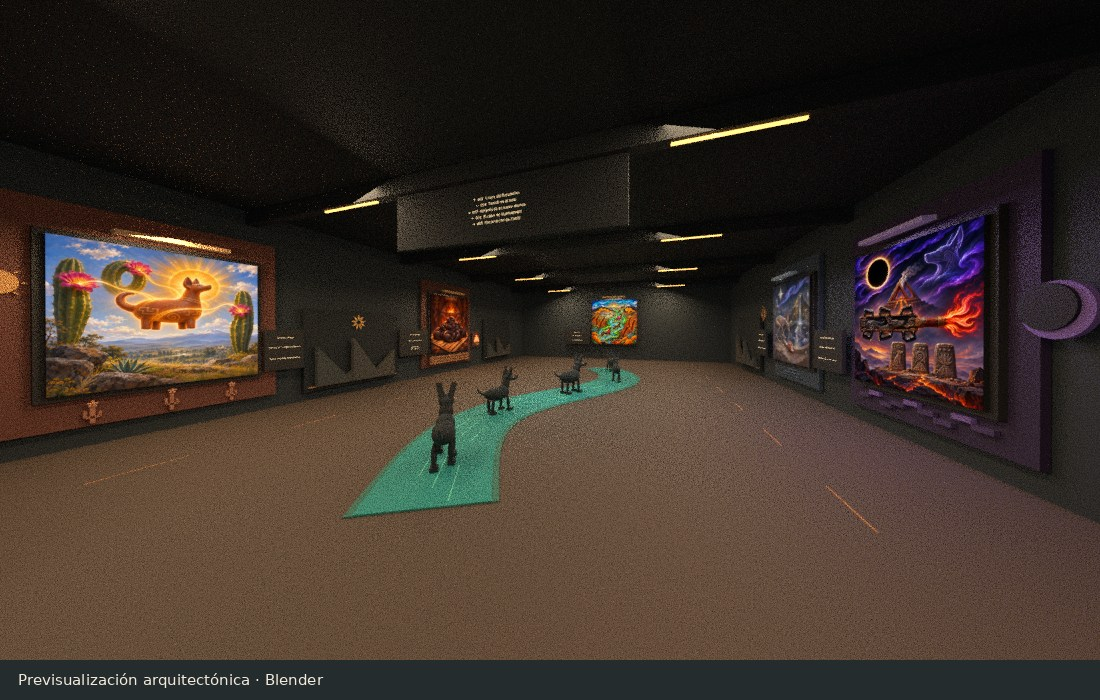
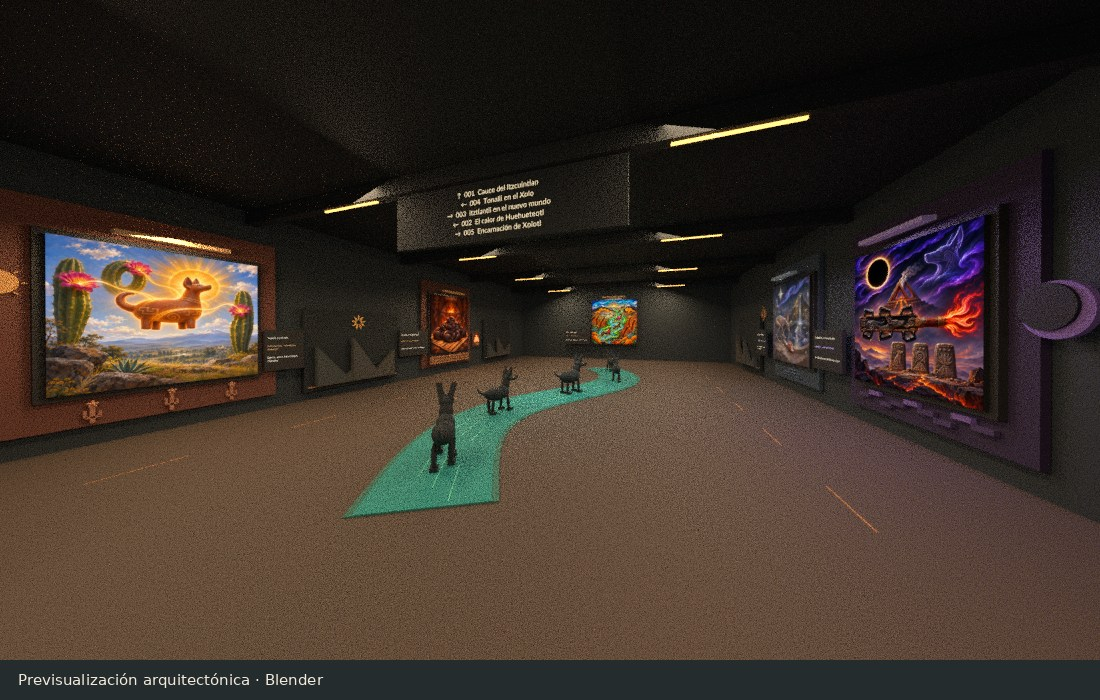
Close Astra architecture review and document private Studio QA

diff --git a/colectividad/tools/render_preview.py b/colectividad/tools/render_preview.py
@@ -4,7 +4,6 @@ import hashlib
 import json
 import math
 import sys
-import textwrap
 from pathlib import Path
 
 import bpy
@@ -17,6 +16,11 @@ def arguments():
     parser.add_argument("originals", type=Path, help="Directory with the original PNGs, named by slug")
     parser.add_argument("output", type=Path)
     parser.add_argument("--views", nargs="+", default=["entrada", "procesion", "obra", "huehueteotl", "itztlantli", "tonalli", "encarnacion", "introduccion", "cinco-estaciones", "retorno", "axonometria"])
+    font_directory = Path("/usr/share/fonts/truetype/lato")
+    parser.add_argument("--font", type=Path, default=font_directory / "Lato-Medium.ttf",
+                        help="Typeface used to approximate Gotham Medium")
+    parser.add_argument("--bold-font", type=Path, default=font_directory / "Lato-Bold.ttf",
+                        help="Typeface used to approximate Gotham Bold")
     return parser.parse_args(sys.argv[sys.argv.index("--") + 1 :])
 
 
@@ -104,22 +108,129 @@ def create_part(part, materials):
     return obj, frame
 
 
-def sign_text(name, body, size, frame, position, color, back=False):
-    curve = bpy.data.curves.new(name, "FONT")
+def text_material(rgb):
+    material = bpy.data.materials.new("Texto de SurfaceGui")
+    material.use_nodes = True
+    nodes = material.node_tree.nodes
+    nodes.clear()
+    emission = nodes.new("ShaderNodeEmission")
+    emission.inputs["Color"].default_value = (*rgb_linear(rgb), 1)
+    output = nodes.new("ShaderNodeOutputMaterial")
+    material.node_tree.links.new(emission.outputs[0], output.inputs["Surface"])
+    return material
+
+
+def sign_frame(part_frame, size, face):
+    # The columns of the rotation are the reader's right, up and outward.
+    normals = {
+        "Front": (0, 0, -1), "Back": (0, 0, 1),
+        "Left": (-1, 0, 0), "Right": (1, 0, 0),
+        "Top": (0, 1, 0), "Bottom": (0, -1, 0),
+    }
+    outward = Vector(normals[face])
+    up = Vector({"Top": (0, 0, 1), "Bottom": (0, 0, -1)}.get(face, (0, 1, 0)))
+    right = up.cross(outward)
+    dimensions = Vector(size)
+    width, height, depth = (
+        dimensions.dot(Vector(tuple(abs(axis) for axis in direction)))
+        for direction in (right, up, outward)
+    )
+    rotation = Matrix((right, up, outward)).transposed().to_4x4()
+    rotation.translation = outward * (depth / 2 + 0.014)
+    return part_frame @ rotation, width, height
+
+
+def resolve_box(udim, canvas):
+    x_scale, y_scale, x_offset, y_offset = udim
+    return Vector((x_scale * canvas[0] + x_offset, y_scale * canvas[1] + y_offset))
+
+
+def line_bounds(curve, probe, body):
     curve.body = body
+    bpy.context.view_layer.update()
+    return probe.bound_box[0][0], probe.bound_box[6][0]
+
+
+def wrap_lines(body, width, measure):
+    for paragraph in body.split("\n"):
+        line = ""
+        for word in paragraph.split():
+            candidate = f"{line} {word}" if line else word
+            if measure(candidate) <= width:
+                line = candidate
+                continue
+            if line:
+                yield line
+                line = ""
+            if measure(word) <= width:
+                line = word
+                continue
+            for letter in word:
+                candidate = line + letter
+                if line and measure(candidate) > width:
+                    yield line
+                    line = letter
+                else:
+                    line = candidate
+        yield line
+
+
+def create_label(label, frame, canvas, font, material):
+    size = label["textSize"]
+    box = resolve_box(label["boxSize"], canvas)
+    x, y = resolve_box(label["position"], canvas)
+    x -= label["anchor"][0] * box.x
+    y -= label["anchor"][1] * box.y
+    curve = bpy.data.curves.new(label["name"], "FONT")
+    curve.font = font
     curve.size = size
-    curve.align_x = "CENTER"
-    curve.align_y = "CENTER"
-    font_path = Path("/usr/share/fonts/truetype/dejavu/DejaVuSans.ttf")
-    if font_path.exists():
-        curve.font = bpy.data.fonts.get("DejaVu Sans") or bpy.data.fonts.load(str(font_path))
-    curve.materials.append(color)
-    obj = bpy.data.objects.new(name, curve)
-    bpy.context.collection.objects.link(obj)
-    # Blender text faces local +Z. Rotate it toward the artwork's viewer.
-    rotation = Matrix.Rotation(0 if back else math.pi, 4, "Y")
-    obj.matrix_world = frame @ Matrix.Translation(position) @ rotation
-    return obj
+    curve.materials.append(material)
+    probe = bpy.data.objects.new(label["name"], curve)
+    bpy.context.collection.objects.link(probe)
+
+    def measure(line):
+        left, right = line_bounds(curve, probe, line)
+        return right - left
+
+    lines = label["text"].split("\n")
+    if label["wrapped"]:
+        lines = list(wrap_lines(label["text"], box.x, measure))
+        fitting_lines = int((box.y + 1e-5) / size)
+        if len(lines) > fitting_lines:
+            print(f"Advertencia: {label['name']} excede la altura de su caja de SurfaceGui")
+            lines = lines[:fitting_lines]
+
+    free_height = box.y - size * len(lines)
+    y += {"Top": 0, "Center": free_height / 2, "Bottom": free_height}[label["yAlignment"]]
+    # Approximate Gotham's baseline and line metrics with the chosen face at the declared pixel size.
+    y += size * 0.78
+    for index, line in enumerate(lines):
+        if not line:
+            continue
+        left, right = line_bounds(curve, probe, line)
+        free_width = box.x - (right - left)
+        shift = {"Left": 0, "Center": free_width / 2, "Right": free_width}[label["xAlignment"]]
+        obj = bpy.data.objects.new(label["name"], curve.copy())
+        bpy.context.collection.objects.link(obj)
+        obj.matrix_world = frame @ Matrix.Translation((x + shift - left, -y - index * size, 0))
+    bpy.data.objects.remove(probe, do_unlink=True)
+    bpy.data.curves.remove(curve)
+
+
+def render_sign(part, sign, frame, fonts, text_colors):
+    face, width, height = sign_frame(frame, part["size"], sign["face"])
+    canvas = sign.get("canvasSize")
+    if canvas is None:
+        pixels = sign["pixelsPerStud"]
+        canvas = (width * pixels, height * pixels)
+    # Map canvas pixels to the part face; label coordinates start at its upper left.
+    canvas_frame = face @ Matrix.Translation((-width / 2, height / 2, 0))
+    canvas_frame = canvas_frame @ Matrix.Diagonal((width / canvas[0], height / canvas[1], 1, 1))
+    for label in sign["labels"]:
+        rgb = tuple(label["textColor"])
+        if rgb not in text_colors:
+            text_colors[rgb] = text_material(rgb)
+        create_label(label, canvas_frame, canvas, fonts.get(label["font"], fonts["GothamMedium"]), text_colors[rgb])
 
 
 def art_plane(name, frame, size, material):
@@ -185,7 +296,11 @@ def main(args):
     scene.world.node_tree.nodes.get("Background").inputs["Strength"].default_value = 0.12
 
     materials = {}
-    text = surface("Texto ámbar", (0.98, 0.87, 0.67), 1)
+    text_colors = {}
+    fonts = {
+        "GothamMedium": bpy.data.fonts.load(str(args.font)),
+        "GothamBold": bpy.data.fonts.load(str(args.bold_font)),
+    }
     art = {slug: (name, emission_image(path)) for slug, (name, path) in originals.items()}
     roof = []
     for part in data["parts"]:
@@ -195,34 +310,9 @@ def main(args):
         if part["name"] == "Obra":
             name, material = art[part["group"]]
             art_plane(name, frame, part["size"], material)
-        elif part["name"] == "Rotulo del umbral":
-            w, _, depth = part["size"]
-            for sign in part["signs"]:
-                back = sign["face"] == "Back"
-                sign_text("Rótulo", sign["labels"][0]["text"], 0.48 if back else 0.65, frame,
-                          (0, 0, (1 if back else -1) * (depth / 2 + 0.014)), text, back)
-        elif part["name"] == "Directorio de obras":
-            for label in part["signs"][0]["labels"]:
-                y = part["size"][1] * (0.5 - label["y"] - label["h"] / 2)
-                x = -part["size"][0] * (label["x"] + label["w"] / 2 - 0.5)
-                sign_text("Directorio", label["text"], 0.31, frame,
-                          (x, y, -part["size"][2] / 2 - 0.014), text)
-        elif part["name"] == "CedulaIntroductoria":
-            width, height, depth = part["size"]
-            for label in part["signs"][0]["labels"]:
-                size = label["size"] / 100
-                columns = 23 if label["y"] < 0.2 else 33
-                copy = textwrap.fill(label["text"], columns)
-                y = height * (0.5 - label["y"] - label["h"] / 2)
-                sign_text("Cédula de entrada", copy, size, frame,
-                          (0, y, -depth / 2 - 0.014), text)
-        elif part["name"] == "Placa":
-            w, h, depth = part["size"]
-            for label in part["signs"][0]["labels"]:
-                copy = label["text"].replace(" del Valle", "\ndel Valle").replace(" y el abrigo", "\ny el abrigo").replace(" y un mundo", "\ny un mundo")
-                y = h * (0.5 - label["y"] - label["h"] / 2)
-                sign_text("Placa · atribución", copy, 0.22, frame,
-                          (0, y, -depth / 2 - 0.014), text)
+            continue
+        for sign in part["signs"]:
+            render_sign(part, sign, frame, fonts, text_colors)
 
     for z in (3, 15, 29, 43, 58):
         for side in (-1, 1):
@@ -250,6 +340,9 @@ def main(args):
         "encarnacion": ((-4.2, 5.7, 38.8), (-20, 6.2, 38.5), 25),
         "introduccion": ((-11.5, 4.9, 4.7), (-20.3, 4.35, 3.65), 33),
         "cinco-estaciones": ((-7.5, 6.25, 1.9), (6, 6.1, 40), 9.5),
+        "cedula-detalle": ((-14.4, 4.5, 3.9), (-20.3, 4.35, 3.65), 28),
+        "directorio": ((0, 10.6, 4.1), (0, 12.32, 14.85), 25),
+        "placa-encarnacion": ((-15.65, 4.8, 44.3), (-20.1, 4.6, 44.5), 26),
         "retorno": ((9.5, 5.65, 47), (0, 6.3, 0), 24),
     }
     for name, parameters in views.items():

diff --git a/colectividad/docs/qa-studio.md b/colectividad/docs/qa-studio.md
@@ -1,0 +1,37 @@
+# QA en copia privada de Roblox Studio
+
+Registra el commit del PR, el operador, la fecha, la versión de Studio y la versión de la copia de prueba. El dictamen artístico y los resultados de este protocolo se registran por separado. La integración final y la publicación requieren autorización explícita.
+
+## Identificación, respaldo y umbral
+
+1. En Creator Hub, abre el universo del Museo del Itzcuintlan y su lista de Places. Registra propietario, Universe ID, Place ID, nombre del lugar y versión de origen. Confirma los IDs en la Command Bar de la sesión correspondiente con `print(game.GameId, game.PlaceId)`. Registra por separado los IDs de la copia privada, con acceso restringido a las cuentas de prueba. [Archivos de Place](https://create.roblox.com/docs/projects/place-files)
+2. Guarda una copia local del Place de origen, calcula su SHA-256 y registra nombre, tamaño y versión. Vuelve a abrir el archivo en Studio y comprueba que contiene la jerarquía esperada y que arranca. Conserva el archivo intacto para la reversión. Captura el acceso, los recorridos y las interacciones existentes antes de sincronizar.
+3. En la copia de prueba localiza la ruta del museo en Explorer. Comprueba la abertura de 12 × 10 studs, el piso al ras, las colisiones y el terreno en el volumen reservado de 44 × 64 studs. Registra la ruta del modelo y los doce componentes del `WorldCFrame` de `ColectividadThreshold`. Sigue los pasos de integración y confirma que el servidor crea un único modelo de sala en el umbral previsto. [Procedimiento de integración](integracion.md)
+4. Haz una pasada de reversión en la copia. Retira las tres carpetas del paquete y el Attachment de prueba, reinicia y compara con la línea base. Conserva las dos evidencias junto al hash del respaldo.
+
+## Imágenes y cuenta visitante
+
+Comprueba SHA-256 y 1254 × 1254 px para cada PNG antes de importarlo con la cuenta titular autorizada. En la copia privada registra para cada obra el Image ID, propietario, estado de moderación, permiso para el universo de prueba y resultado con la cuenta visitante. Configura los IDs solo en la copia de prueba. La cuenta visitante debe poder ver las cinco imágenes completas y en proporción cuadrada, junto a sus placas, y abrir las fichas. Comprueba además el aviso de imagen pendiente con un ID vacío en una sesión local. [Fuentes y SHA-256](obra.md) · [Importación de assets](https://create.roblox.com/docs/studio/importer) · [Privacidad de assets](https://create.roblox.com/docs/projects/assets/privacy)
+
+## Recorrido y entradas
+
+| Prueba | Aceptación y evidencia |
+| --- | --- |
+| Umbral, orillas y cruce final | En modo Server & Clients con dos jugadores, prueba avance en paralelo y en sentidos contrarios por cada corredor. Detén un jugador frente a la cédula y luego frente a 005 mientras el otro pasa. Ambos completan la vuelta, cruzan en Z 49–58 y regresan al museo sin atascarse, caer ni necesitar saltar. Guarda grabación desde ambos clientes. |
+| Cámara y jerarquía | Captura el umbral y la primera vista hacia 001 a tres alturas de avatar. Repite con giros de cámara, acercamiento a ambos muros, primera persona y tercera persona. En 003 y 005 confirma que se distinguen las dos placas, el relieve «Memoria» y el paño siguiente. Desde la franja real pide a una cuenta visitante que señale qué placa corresponde a 003 y cuál a 005. Conserva tomas frontal y oblicua. |
+| Cédula y directorio | Comprueba a pie que se identifican el acceso al texto completo y la dirección de las cinco estaciones. Verifica título, extracto y contraste bajo la luz efectiva del Place. La cédula debe permitir que otro jugador pase hacia la sala mientras el primero lee. |
+| Cinco fichas y lector | Cada jugador abre los cinco prompts NFT y el de introducción. La pantalla del otro permanece cerrada. Comprueba edición, token, anuncio y título, alternancia sin superposición, desplazamiento hasta el final y cierre después de reaparecer. Confirma acceso sin wallet y revisa Output en cliente y servidor. |
+| Dispositivos y controles | En escritorio prueba E, Retroceso, ratón y teclado. En Device Simulator usa teléfono vertical y horizontal y un perfil de tableta, con apertura táctil y desplazamiento. Con Controller Emulator prueba apertura, foco, desplazamiento y cierre con B. En un teléfono físico, repite apertura, desplazamiento y cierre táctiles, y comprueba lectura a distancia de brazo. Usa el mismo dispositivo para medir rendimiento. |
+| Museo existente | Recorre antes y después las salas, NPC, pads, colisiones e interacciones ya presentes. Guarda la comparación y registra cualquier regresión. |
+
+[Modos de prueba de Studio](https://create.roblox.com/docs/studio/testing-modes)
+
+## Medición de rendimiento
+
+Usa la misma copia, cámara, resolución, calidad gráfica y recorrido al comparar cuatro y cinco estaciones. Haz tres pasadas de 60 segundos por variante después de 30 segundos de calentamiento. Recorre umbral, cédula, 004, 003, 005, cruce y regreso. En la variante de cuatro obras pasa por la misma ubicación de 005. Registra la primera carga de imágenes por separado. Añade una sesión de 15 minutos en el teléfono físico. Captura tiempos de fotograma y memoria con MicroProfiler y Developer Console en el cliente Roblox de escritorio y en un teléfono físico representativo. Usa la emulación de Studio para controles y encuadre.
+
+Anota por dispositivo modelo, SO, resolución, calidad gráfica, mediana y p95 del tiempo de fotograma, p99, máximo de memoria, memoria tras 20 ciclos de abrir/cerrar lectores y reaparecer y tiempo de carga de las cinco imágenes. Adjunta los volcados y las capturas al resultado. Los presupuestos de revisión artística figuran en el dictamen de Astra y deben cotejarse con esas mediciones. [Pruebas en hardware](https://create.roblox.com/docs/performance-optimization/test-on-hardware) · [MicroProfiler](https://create.roblox.com/docs/performance-optimization/microprofiler/use-microprofiler)
+
+## Registro de aceptación
+
+Para cada prueba registra `Pasa`, `Falla` o `Pendiente`, junto con el dispositivo, la evidencia y la incidencia si aplica. Adjunta el resultado al PR con el SHA probado y la versión de la copia. La aprobación humana se registra después de revisar este resultado.

diff --git a/colectividad/docs/dictamen-final-astra.md b/colectividad/docs/dictamen-final-astra.md
@@ -1,0 +1,36 @@
+# Dictamen arquitectónico de Astra
+
+**Dictamen final de Astra: APROBACIÓN CONCEPTUAL.** En el segundo examen, Astra verificó en Blender los tres renders corregidos y el detalle de la cédula. Los dos hallazgos P2 quedaron resueltos. La previsualización reproduce la jerarquía, la alineación y los colores de los rótulos con una tipografía aproximada. El ensayo de recorrido declara el despeje geométrico, y la cámara se verifica en Studio. [Comparativa antes y después](evidencia/revision-final-antes-despues.jpg)
+
+El dictamen inicial sobre [ca9b79d35ca5ec67f68546f26887724783436025](https://github.com/xolosArmy/xolosarmy_roblox_nft_gallery/commit/ca9b79d35ca5ec67f68546f26887724783436025) fue **APROBACIÓN CON CAMBIOS**. El volumen de 44 × 64 studs admite las cinco estaciones y la cédula. Astra pidió corregir la fidelidad de los renders tipográficos y el alcance declarado de la prueba de visibilidad. [Mandato de revisión](https://github.com/xolosArmy/xolosarmy_roblox_nft_gallery/pull/4#issuecomment-6861884100)
+
+Astra inspeccionó visualmente el [conjunto](https://github.com/xolosArmy/xolosarmy_roblox_nft_gallery/blob/ca9b79d35ca5ec67f68546f26887724783436025/colectividad/docs/evidencia/cinco-estaciones.jpg), la [planta acotada](https://github.com/xolosArmy/xolosarmy_roblox_nft_gallery/blob/ca9b79d35ca5ec67f68546f26887724783436025/colectividad/docs/evidencia/planta.png), la [comparativa de cuatro y cinco estaciones](https://github.com/xolosArmy/xolosarmy_roblox_nft_gallery/blob/ca9b79d35ca5ec67f68546f26887724783436025/colectividad/docs/evidencia/comparativa-etapa5.png), [Encarnación](https://github.com/xolosArmy/xolosarmy_roblox_nft_gallery/blob/ca9b79d35ca5ec67f68546f26887724783436025/colectividad/docs/evidencia/encarnacion.jpg) y la [cédula](https://github.com/xolosArmy/xolosarmy_roblox_nft_gallery/blob/ca9b79d35ca5ec67f68546f26887724783436025/colectividad/docs/evidencia/introduccion.jpg). Cotejó las cotas y la validación declarada con el modelo.
+
+| Aspecto | Observación y criterio para la revisión |
+| --- | --- |
+| Jerarquía y secuencia | El cauce turquesa y las cinco figuras conducen hacia 001, en el muro del fondo. 004 y 003 ocupan el primer tramo lateral, con terracota y violeta. 002 y 005 se enfrentan en el tramo medio, con ámbar y azul nocturno. La toma amplia da mayor tamaño aparente a las piezas cercanas. El criterio en Studio es que 001 se reconozca como remate al entrar y al levantar la vista durante el recorrido. |
+| Trazado | La planta mantiene el vano de 12 × 10, dos corredores de 6 studs y el cruce Z 49–58. La franja 005 deja 1 stud lateral hasta el corredor y 3 hasta el cruce. Los 0.35 studs al paño anterior y 0.20 al siguiente son separaciones de montaje mural. Probar con dos avatares, cámara cercana y vistas oblicuas. |
+| Cédula | El panel de 4.6 × 4.1 se sitúa a Y 4.35 en −X, Z 3.65. Queda en el lado opuesto a 004 y por debajo del directorio elevado. Su título, extracto y lector separado permiten elegir la profundidad de lectura. Confirmar contraste y tamaño desde la franja con la luz real, y que un visitante puede leer mientras otro atraviesa el acceso. |
+| Conservación | El detalle de 005 muestra el conjunto «Memoria» completo sobre su placa. Su posición lo distingue del marco vecino de 003. Confirmar desde vista oblicua que los motivos se distinguen y que las placas siguen asociadas con la obra correcta. |
+| Experiencia | Las 419 piezas, 15 luces locales y cero partículas describen el modelo. La aceptación de fluidez, memoria, texturas, controles y cámara requiere Roblox Studio y cliente en hardware real. |
+
+## Correcciones verificadas
+
+| Prioridad | Hallazgo reproducible | Corrección y verificación |
+| --- | --- | --- |
+| P2 | En la base, `tools/render_preview.py` centraba las placas y fijaba su tamaño y color. La cédula usaba cortes por número de caracteres que no correspondían al panel Luau. Se aprecia en `introduccion.jpg` y en las placas de `encarnacion.jpg`. | Exportar caja, escala de lienzo, tamaño, color, alineación y ajuste de texto desde cada SurfaceGui. Regenerar conjunto, cédula y 005 con una fuente de escritorio aproximada. Cotejar los tres pares en la [comparativa antes y después](evidencia/revision-final-antes-despues.jpg). |
+| P2 | En la base, `tests/verify.luau` comprobaba el eje visual mediante cajas de piezas con `CanCollide`. El ensayo omitía elementos visibles como las figuras y el directorio. | Conservar la comprobación de circulación mediante cajas, retirar la afirmación de visibilidad automatizada y verificar el eje y los giros de cámara con dos clientes en Studio. [Validación](validacion.md) · [Guion de cámara y recorrido](qa-studio.md) |
+
+## Presupuesto propuesto para Studio
+
+Estos valores son criterios de aceptación del proyecto. La comparación usa el mismo dispositivo, calidad, resolución y recorrido, con tres pasadas de 60 segundos por versión.
+
+| Indicador | Criterio |
+| --- | --- |
+| Geometría y luces | Hasta 435 piezas, 15 luces locales sin sombras y cero partículas. |
+| Escritorio a 1080p | Mediana de fotograma ≤16.7 ms y p95 ≤20 ms. |
+| Teléfono físico representativo | Mediana ≤33.3 ms y p95 ≤40 ms. Sesión adicional de 15 minutos. |
+| Ambos dispositivos | p99 ≤66.7 ms y ausencia de pausas repetidas >100 ms atribuibles a la sala tras cargar. El p95 de cinco estaciones puede crecer como máximo 10 % respecto a cuatro, además de cumplir el valor absoluto. |
+| Memoria | Incremento de hasta 128 MiB respecto al museo base en el mismo dispositivo. Registrar total y categoría de texturas. Tras 20 ciclos de abrir/cerrar lectores y reaparecer, verificar un crecimiento de hasta 5 MiB después de estabilizarse. |
+
+Las comprobaciones de cajas sostienen el trazado y las holguras estáticas. La cámara, la coincidencia de avatares, la lectura en pantalla, las imágenes moderadas y el rendimiento permanecen pendientes de ejecución. El protocolo registra estos resultados aparte del dictamen artístico y de la aprobación humana. [QA en copia privada](qa-studio.md) · [Pruebas en hardware de Roblox](https://create.roblox.com/docs/performance-optimization/test-on-hardware)

diff --git a/colectividad/docs/validacion.md b/colectividad/docs/validacion.md
@@ -5,7 +5,7 @@
 - Compilación de todos los scripts Luau con el compilador oficial 0.746.
 - Pruebas Lune con instancias de rbx-dom y consultas del mundo simuladas. Verifican los cinco marcos cuadrados, su orientación, cinco prompts NFT con los títulos y datos correctos, y el rechazo de un ID inválido en la quinta obra sin dejar una instalación parcial. Confirman el anclaje de prueba, la conservación de instancias históricas simuladas y la reejecución sin duplicados.
 - Prueba del LocalScript con señales simuladas. Al alternar entre obras se actualizan título, edición, token y anuncio. Solo se procesa el prompt del visitante local y de su exhibidor. Se comprueba una GUI y una suscripción por lector, foco exclusivo entre ficha y cédula, cierre con botón o mando y limpieza al reaparecer. Se verifican las propiedades de ajuste de texto, márgenes de pantalla y desplazamiento de la ficha.
-- Comprobación geométrica con cajas alineadas a los ejes locales de las holguras de 0.35 y 0.20 studs, del traslado de las 12 piezas de «Memoria», del alcance entre los seis prompts y del despeje de los dos corredores y del cruce final. El ensayo usa dos envolventes de avatar de 2.5 studs de ancho por corredor y comprueba el eje visual hacia 001 a tres alturas.
+- Comprobación geométrica con cajas alineadas a los ejes locales de las holguras de 0.35 y 0.20 studs, del traslado de las 12 piezas de «Memoria», del alcance entre los seis prompts y del despeje de los dos corredores y del cruce final. El ensayo usa dos envolventes de avatar de 2.5 studs de ancho por corredor. La comprobación de la línea de visión y el comportamiento de cámara se realiza en Studio.
 - Construcción con Rojo 7.7.1 de ambos proyectos y lectura de la maqueta generada para comprobar sus scripts y catálogo. Generación del mapa de fuentes de la integración parcial.
 - Dimensiones y SHA-256 de los cinco PNG verificados. Xolos Explorer ofrece las referencias de token, minteo y anuncio. Se verificaron en el nodo que consulta el explorador los cinco minteos y los cinco anuncios.
 - Cotejo de los montajes 001 a 004, cauce, esculturas y envolvente colisionable contra la exportación de la Etapa 4. Los archivos de las salas históricas coinciden con `main`.
@@ -20,6 +20,8 @@ lune run colectividad/tests/verify.luau Colectividad-demo.rbxlx
 ```
 
 ## Aceptación pendiente en Roblox Studio
+
+El [protocolo de QA en copia privada](qa-studio.md) recoge los pasos, las evidencias y los presupuestos de rendimiento del [dictamen artístico](dictamen-final-astra.md).
 
 Ejecutar primero en la maqueta local y luego en la copia privada que contiene el museo real. La primera verifica el diseño espacial y la segunda verifica la conexión y regresión. [Modos de prueba de Studio](https://create.roblox.com/docs/studio/testing-modes).
 

diff --git a/colectividad/docs/arquitectura.md b/colectividad/docs/arquitectura.md
@@ -34,7 +34,7 @@ El montaje de Encarnación sigue el [dictamen de Astra](etapa5.md). El fondo de 
 
 ## Previsualización
 
-Blender usa las posiciones, medidas, colores y rótulos exportados desde Luau. Sus luces y cámaras son de previsualización. Las cinco obras se muestran con sus PNG canónicos verificados. Los marcos de la maqueta Roblox muestran el aviso de asset pendiente.
+Blender usa las posiciones, medidas, colores y rótulos exportados desde Luau. La iluminación, las cámaras y la tipografía de escritorio son aproximaciones para revisar el diseño. Las cinco obras se muestran con sus PNG canónicos verificados. Los marcos de la maqueta Roblox muestran el aviso de asset pendiente.
 
 | Vista | Imagen |
 | --- | --- |
@@ -45,6 +45,7 @@ Blender usa las posiciones, medidas, colores y rótulos exportados desde Luau. S
 | Tonalli en el Xolo | [Terracota, sol y tres cactus](evidencia/tonalli.jpg) |
 | Encarnación de Xolotl | [Marco, Venus y motivo «Memoria»](evidencia/encarnacion.jpg) |
 | Cédula de Xólotl | [Panel de entrada](evidencia/introduccion.jpg) |
+| Revisión de los rótulos | [Antes y después](evidencia/revision-final-antes-despues.jpg) |
 | Volumen y recorridos | [Axonometría sin cubierta](evidencia/axonometria.jpg) |
 | Acceso y circulación | [Entrada](evidencia/entrada.jpg) · [Procesión](evidencia/procesion.jpg) · [Regreso](evidencia/retorno.jpg) |
 
@@ -52,7 +53,7 @@ Las capturas y el video de Studio quedan pendientes de una prueba ejecutada en l
 
 ### Regenerar la previsualización
 
-Desde la raíz del repositorio, con Lune 0.11.1, Blender 4.3 y Python con Pillow. Obtén los PNG en `originales` mediante [el procedimiento de verificación](obra.md).
+Desde la raíz del repositorio, con Lune 0.11.1, Blender 4.3 y Python con Pillow. La previsualización usa Lato Medium y Bold como aproximación de Gotham. Si las fuentes están en otra ubicación, indica sus archivos con `--font` y `--bold-font`. Obtén los PNG en `originales` mediante [el procedimiento de verificación](obra.md).
 
 ```sh
 lune run colectividad/tools/export_preview.luau sala.json

diff --git a/colectividad/README.md b/colectividad/README.md
@@ -8,7 +8,8 @@ Ampliación del Museo del Itzcuintlan para el [mandato XR-ROBLOX-COLECTIVIDAD-SA
 | Evaluación de Astra para la quinta obra | [Dictamen y prototipo](docs/etapa5.md) |
 | Inventario, anclaje, respaldo y reversión | [Integración](docs/integracion.md) |
 | PNG originales, permisos de assets y referencias criptográficas | [Obras](docs/obra.md) |
-| Pruebas automatizadas y recorrido de aceptación | [Validación](docs/validacion.md) |
+| Revisión arquitectónica final | [Dictamen de Astra](docs/dictamen-final-astra.md) |
+| Pruebas automatizadas y recorrido de aceptación | [Validación](docs/validacion.md) · [QA en copia privada](docs/qa-studio.md) |
 
 ## Abrir la maqueta local
 
